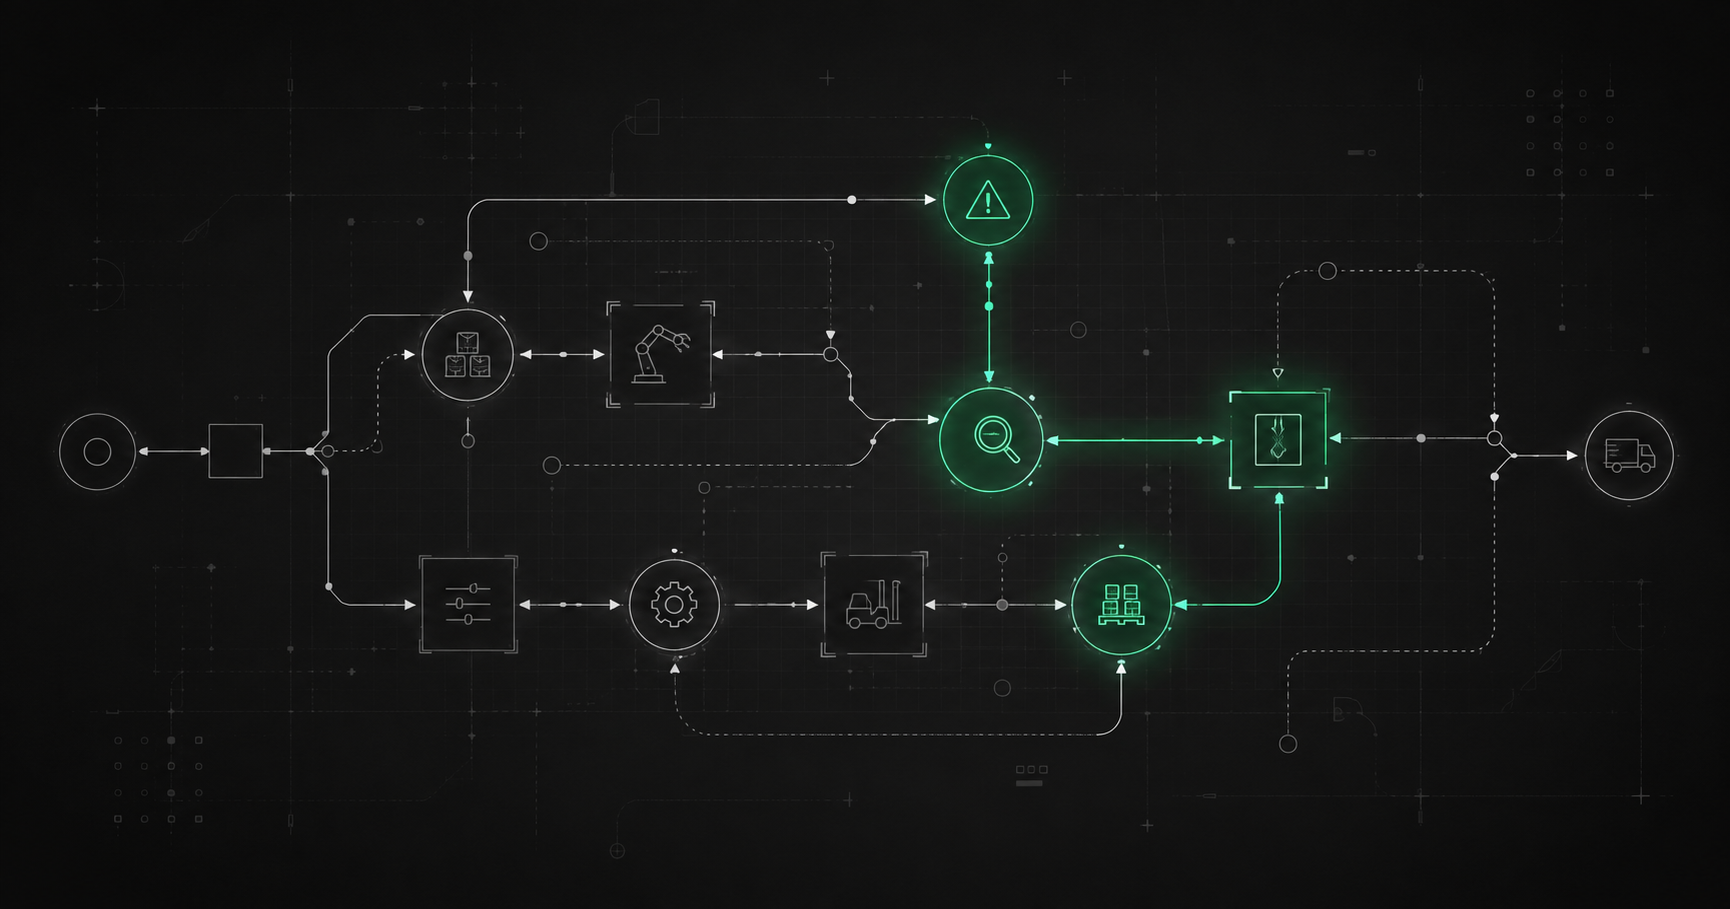
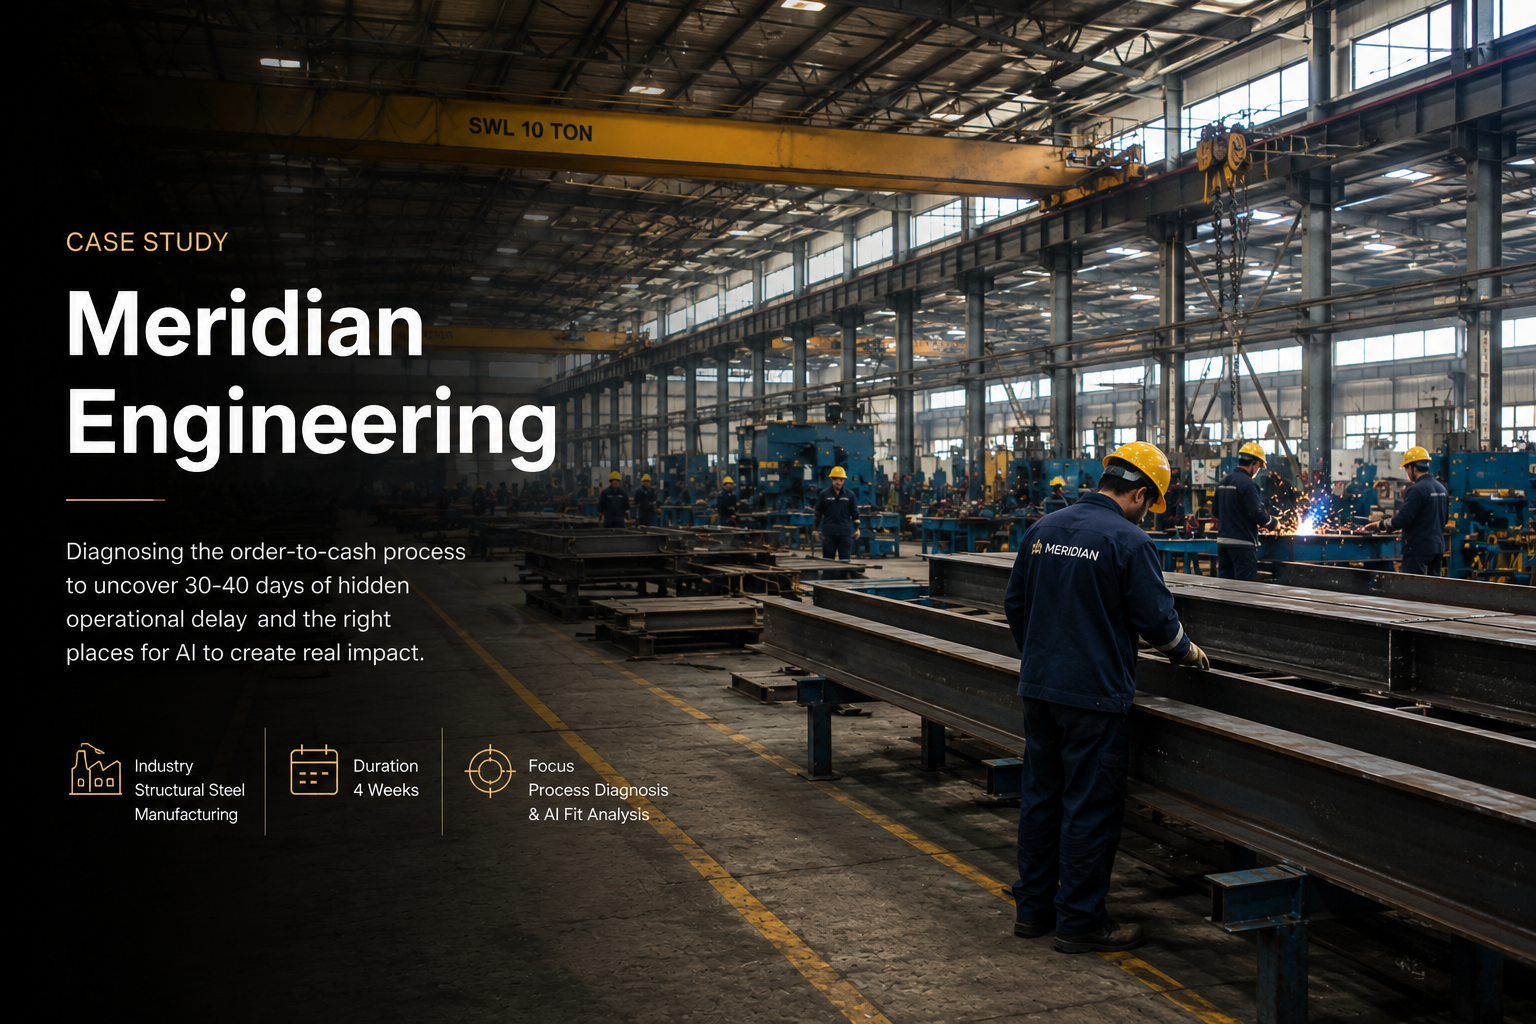
Swap hero images and fix hero legibility
Replace the when-ai-fails and Meridian Engineering cover images, updating
dimensions and alt text to match. Homepage hero: drop the edge vignette
and add a flat 20% black overlay so headline text stays readable across
the whole photo.

diff --git a/app/page.tsx b/app/page.tsx
@@ -193,6 +193,18 @@ export default function Home() {
           style={{ objectFit: "cover", objectPosition: "center 55%", zIndex: 0 }}
         />
 
+        {/* Flat black overlay — 20% opacity, keeps text legible across the whole photo */}
+        <div
+          aria-hidden="true"
+          style={{
+            position: "absolute",
+            inset: 0,
+            background: "rgba(0,0,0,0.2)",
+            zIndex: 1,
+            pointerEvents: "none",
+          }}
+        />
+
         {/* Center scrim — darkens the text column for legibility over the photo */}
         <div
           aria-hidden="true"
@@ -201,18 +213,6 @@ export default function Home() {
             inset: 0,
             background:
               "radial-gradient(ellipse 55% 85% at 50% 50%, rgba(13,13,13,0.7) 0%, rgba(13,13,13,0.35) 55%, transparent 100%)",
-            zIndex: 1,
-            pointerEvents: "none",
-          }}
-        />
-
-        {/* Radial vignette overlay — blends photo edges into page background */}
-        <div
-          aria-hidden="true"
-          style={{
-            position: "absolute",
-            inset: 0,
-            background: "radial-gradient(ellipse 80% 60% at 50% 50%, transparent 30%, #0d0d0d 100%)",
             zIndex: 2,
             pointerEvents: "none",
           }}
@@ -690,7 +690,7 @@ export default function Home() {
             <Link href="/when-ai-fails" className="spotlight-media">
               <Image
                 src="/when-ai-fails/cover.png"
-                alt="A boardroom lit in green with an elephant standing at the head of the table, while four people in a meeting look anywhere but at it."
+                alt="An elephant standing at the head of a boardroom table while four people sit around it with laptops open, undisturbed by the animal in the room."
                 fill
                 sizes="(max-width: 860px) 100vw, 460px"
                 style={{ objectFit: "cover" }}

diff --git a/app/when-ai-fails/page.tsx b/app/when-ai-fails/page.tsx
@@ -23,9 +23,9 @@ export const metadata: Metadata = {
     images: [
       {
         url: "/when-ai-fails/cover.png",
-        width: 1536,
-        height: 1024,
-        alt: "A boardroom lit in green with an elephant standing at the head of the table, while four people in a meeting look anywhere but at it.",
+        width: 1254,
+        height: 1254,
+        alt: "An elephant standing at the head of a boardroom table while four people sit around it with laptops open, undisturbed by the animal in the room.",
       },
     ],
   },
@@ -89,9 +89,9 @@ export default function WhenAIFails() {
         <figure className="post-figure">
           <Image
             src="/when-ai-fails/cover.png"
-            alt="A boardroom lit in green with an elephant standing at the head of the table, while four people in a meeting look anywhere but at it."
-            width={1536}
-            height={1024}
+            alt="An elephant standing at the head of a boardroom table while four people sit around it with laptops open, undisturbed by the animal in the room."
+            width={1254}
+            height={1254}
             sizes="(max-width: 960px) 100vw, 960px"
             style={{ width: "100%", height: "auto" }}
             priority

diff --git a/app/case-studies/meridian-engineering/page.tsx b/app/case-studies/meridian-engineering/page.tsx
@@ -22,8 +22,8 @@ export const metadata: Metadata = {
     images: [
       {
         url: "/case-studies/meridian-engineering/cover.png",
-        width: 1730,
-        height: 909,
+        width: 1536,
+        height: 1024,
         alt: TITLE,
       },
     ],
@@ -83,8 +83,8 @@ export default function CaseStudy() {
           <Image
             src="/case-studies/meridian-engineering/cover.png"
             alt={TITLE}
-            width={1730}
-            height={909}
+            width={1536}
+            height={1024}
             sizes="(max-width: 1024px) 100vw, 880px"
             style={{ width: "100%", height: "auto" }}
             priority
